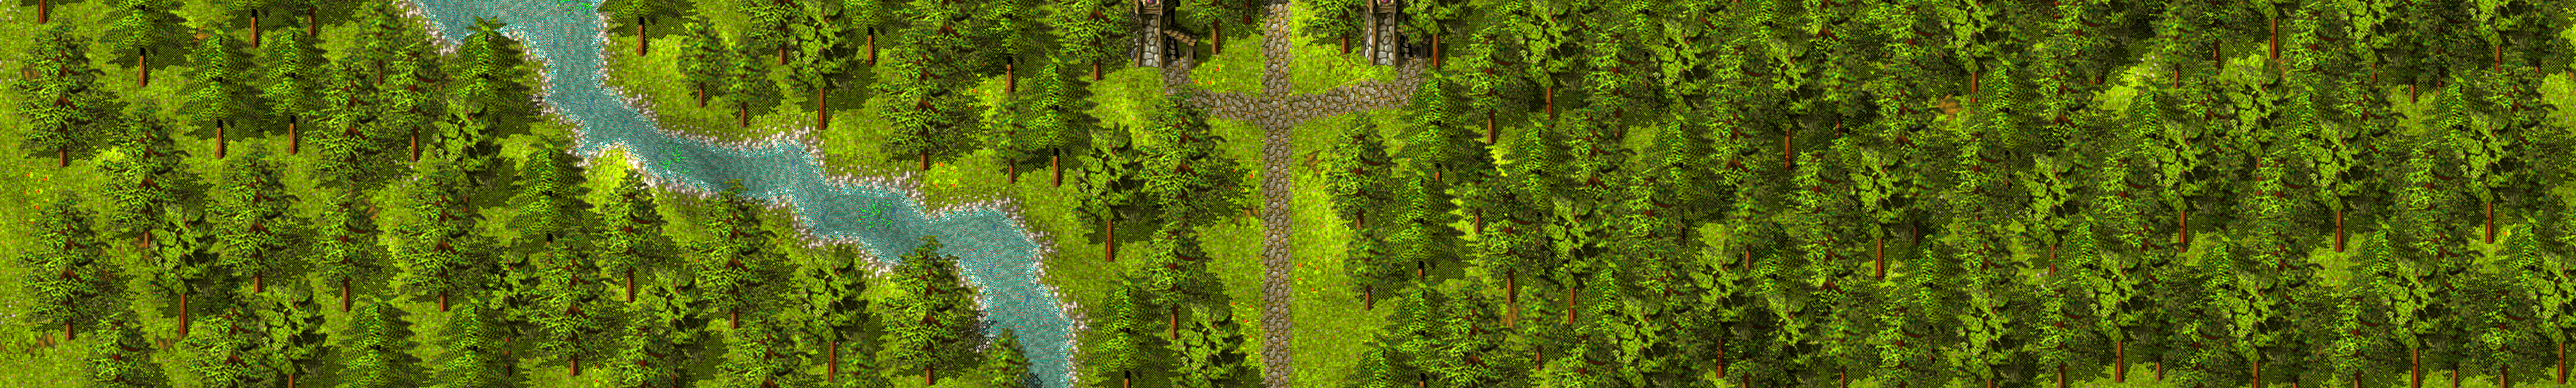
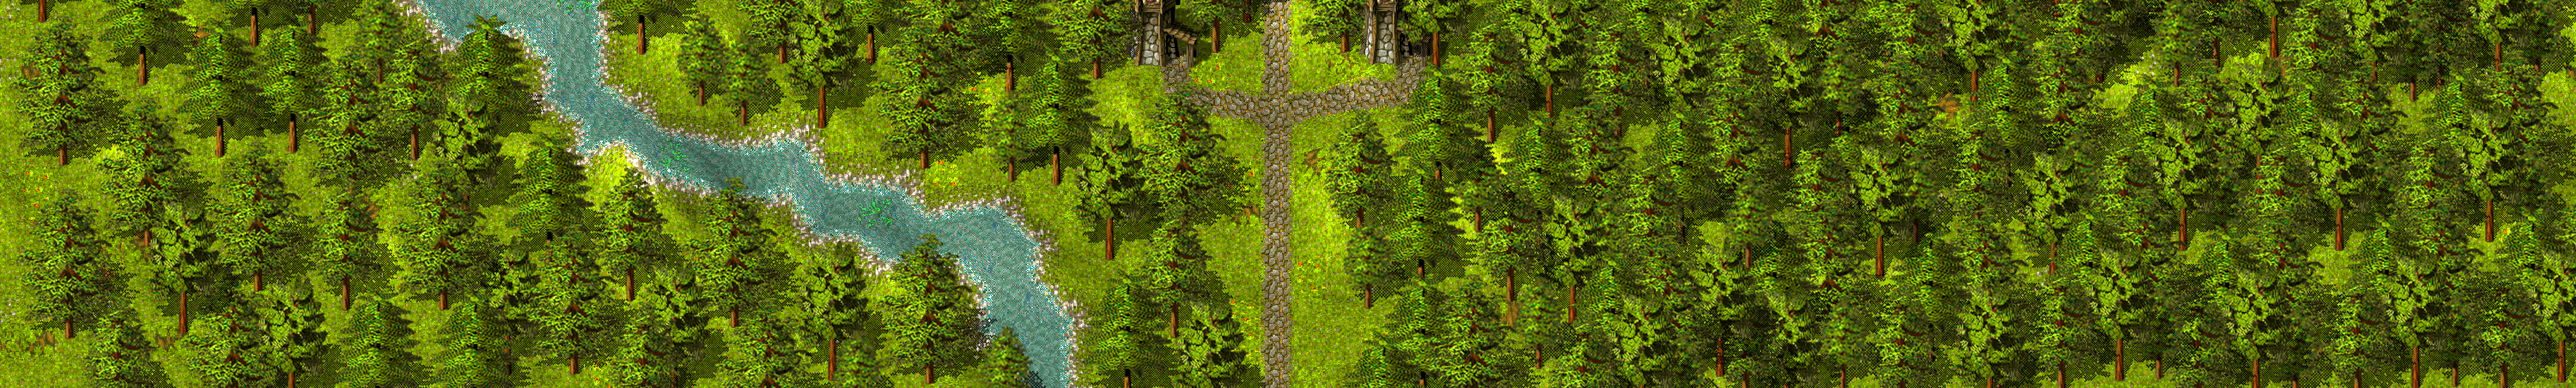
add animations to main-site and second parallax

diff --git a/src/app/components/main-site/main-site.component.html b/src/app/components/main-site/main-site.component.html
@@ -7,7 +7,7 @@
       </a>
     </div>
 
-    <div class="parallax">
+    <div class="parallax" (scroll) = "onContentScroll($event)">
       <div class="parallax__layer parallax__layer__0">
         <img
           src="assets/parallax/layer-1-0.png"/>
@@ -32,9 +32,17 @@
         <img
           src="assets/parallax/layer-1-5.png"/>
       </div>
+      <div class="parallax__layer parallax__layer__5">
+        <img
+          [src]="layer5Flags"/>
+      </div>
       <div class="parallax__layer parallax__layer__6">
         <img
           src="assets/parallax/layer-1-6.png"/>
+      </div>
+      <div class="parallax__layer parallax__layer__6">
+        <img
+          [src]="layer6Flags"/>
       </div>
       <div class="parallax__cover-1"></div>
     </div>
@@ -43,14 +51,27 @@
 
 
   <div class="home-row-spacer row-spacer1"></div>
+
   <div class="story-container">
-    <p>TAKSSADADADWDW</p>
+
+    <div class="parallax2">
+      <div class="parallax__layer-food-1">
+        <img
+          src="../../../assets/parallax/layer-cover-food.png"/>
+      </div>
+            <div class="parallax__layer-food-1">
+              <img
+                [src]="layersOfFood"/>
+            </div>
+    </div>
   </div>
+
   <div class="home-row-spacer row-spacer2"></div>
+
   <div class="mechanics-container">
 
 
-    <div class="parallax2">
+    <div class="parallax3" >
       <div class="parallax__layer parallax__layer__0">
         <img
           src="https://github.com/samdbeckham/blog/blob/master/dev/_assets/images/articles/firewatch/layer_0.png?raw=true"/>
@@ -73,16 +94,16 @@
       </div>
       <div class="parallax__layer parallax__layer__5">
         <img
-          src="https://github.com/samdbeckham/blog/blob/master/dev/_assets/images/articles/firewatch/layer_5.png?raw=true"/>
+          src="../../../assets/parallax/flags-1.png"/>
       </div>
       <div class="parallax__layer parallax__layer__6">
         <img
-          src="https://github.com/samdbeckham/blog/blob/master/dev/_assets/images/articles/firewatch/layer_6.png?raw=true"/>
+          [src]="activeImage"/>
       </div>
       <div class="parallax__cover"></div>
     </div>
 
-
+<!--    [src]="testAnimation()"/>-->
   </div>
   <div class="home-row-spacer row-spacer3"></div>
   <div class="gameplay-container">

diff --git a/src/app/components/main-site/main-site.component.ts b/src/app/components/main-site/main-site.component.ts
@@ -1,22 +1,56 @@
-import {Component, ElementRef, OnInit} from '@angular/core';
+import {
+  ChangeDetectionStrategy, ChangeDetectorRef,
+  Component,
+  ElementRef,
+  HostListener,
+  OnDestroy,
+  OnInit,
+  Renderer2, ViewChild
+} from '@angular/core';
 
 @Component({
   selector: 'app-main-site',
   templateUrl: './main-site.component.html',
-  styleUrls: ['./main-site.component.css']
+  styleUrls: ['./main-site.component.css'],
+  changeDetection: ChangeDetectionStrategy.OnPush
 })
 export class MainSiteComponent implements OnInit {
 
-  public scrollHeight: ElementRef;
+  public activeImage = 'https://github.com/samdbeckham/blog/blob/master/dev/_assets/images/articles/firewatch/layer_6.png?raw=true';
+  public layer5Flags = '../../../assets/parallax/layer5Flags-1.png';
+  public layer6Flags;
+  public layersOfFood;
 
-
-  constructor() { }
+  constructor(private cdRef: ChangeDetectorRef) {
+  }
 
   ngOnInit(): void {
+    let i = 1;
+
+    setInterval(() => {
+      this.layer5Flags = `../../../assets/parallax/layer5Flags-${i}.png`;
+      this.layer6Flags = `../../../assets/parallax/layer6Flags-${i}.png`;
+      this.layersOfFood = `../../../assets/parallax/parallax2-layer-${i}.png`;
+      this.cdRef.detectChanges();
+      if (i === 10) {
+        i = 1;
+      } else {
+        i++;
+      }
+    }, 100);
   }
 
-  public onScroll(): void{
-    const scrollHeight = this.scrollHeight.nativeElement as HTMLElement;
-    console.log(' dupa ' + scrollHeight);
+
+  @HostListener('window:scroll', ['$event']) onWindowScroll(e): void {
+    console.log(e.target.scrollingElement.scrollTop);
+
+    // Your Code Here
+
   }
+
+  public onContentScroll(e: Event): void {
+    console.log('parallax' + (e.target as Element).scrollTop);
+  }
+
+
 }

diff --git a/src/assets/styles/_main-site.scss b/src/assets/styles/_main-site.scss
@@ -25,7 +25,10 @@
 .parallax2::-webkit-scrollbar{
   display: none;
 }
-.parallax2 {
+.parallax3::-webkit-scrollbar{
+  display: none;
+}
+.parallax3 {
   perspective: 100px;
   height: 100vh;
   overflow-x: hidden;
@@ -39,6 +42,7 @@
   margin-left: -1500px;
   max-width: 3000px;
 }
+
 .parallax__layer{
   position: absolute;
   top: 0;
@@ -52,6 +56,47 @@
     bottom: 0;
   }
 }
+
+
+.parallax2 {
+  perspective: 100px;
+  height: 100vh;
+  overflow-x: hidden;
+  overflow-y: auto;
+  position: absolute;
+  left: 50%;
+  right: 0;
+  margin-left: -1500px;
+  max-width: 3000px;
+}
+.parallax__layer-food-1{
+  position: absolute;
+  top: 0;
+  right: 0;
+  bottom: 0;
+  left: 0;
+
+  img{
+    display: block;
+    position: absolute;
+
+    top: 0 ;
+  }
+}
+
+.parallax__cover-food-1{
+  display: block;
+  position: absolute;
+  top: calc(100vh - 445px);
+  left: 0;
+  right: 0;
+  bottom: 0;
+  height: 445px;
+  //z-index: 2;
+}
+
+
+
 .parallax__cover-1{
   //background-image: url("src/assets/parallax/parallal-cover-1.png");
   display: block;

diff --git a/src/app/components/main-site/main-site.component.css b/src/app/components/main-site/main-site.component.css
@@ -52,7 +52,7 @@
 }
 .story-container{
   grid-area: story;
-  background-color: #FEDCC8;
+  /*background-color: #FEDCC8;*/
 }
 .mechanics-container{
   grid-area: mechanics;
@@ -102,3 +102,11 @@
 .parallax__cover-1 {
   background-image: url("src/assets/parallax/parallal-cover-1.png");
 }
+
+.parallax__cover-food-1 {
+  background-image: url("src/assets/parallax/layer-cover-food.png");
+}
+
+/*.parallax__layer-food__1{*/
+/*  transform: translateZ(0px) scale(1);*/
+/*}*/
